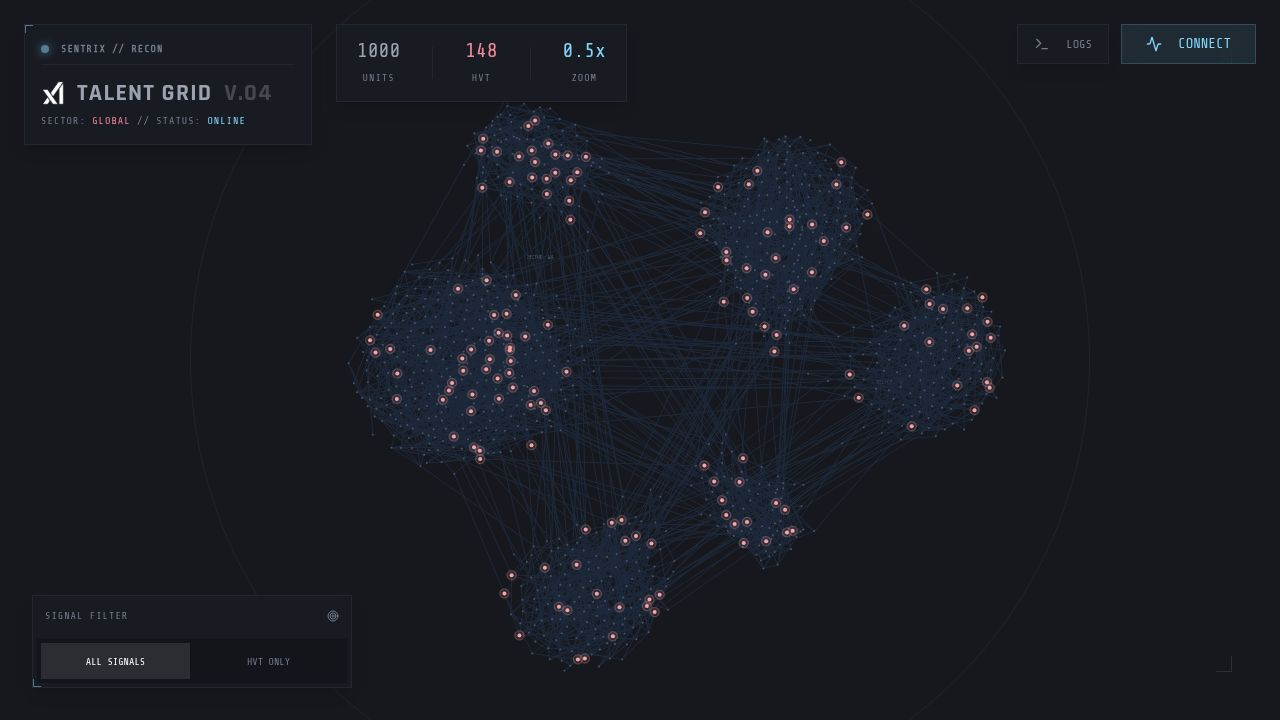
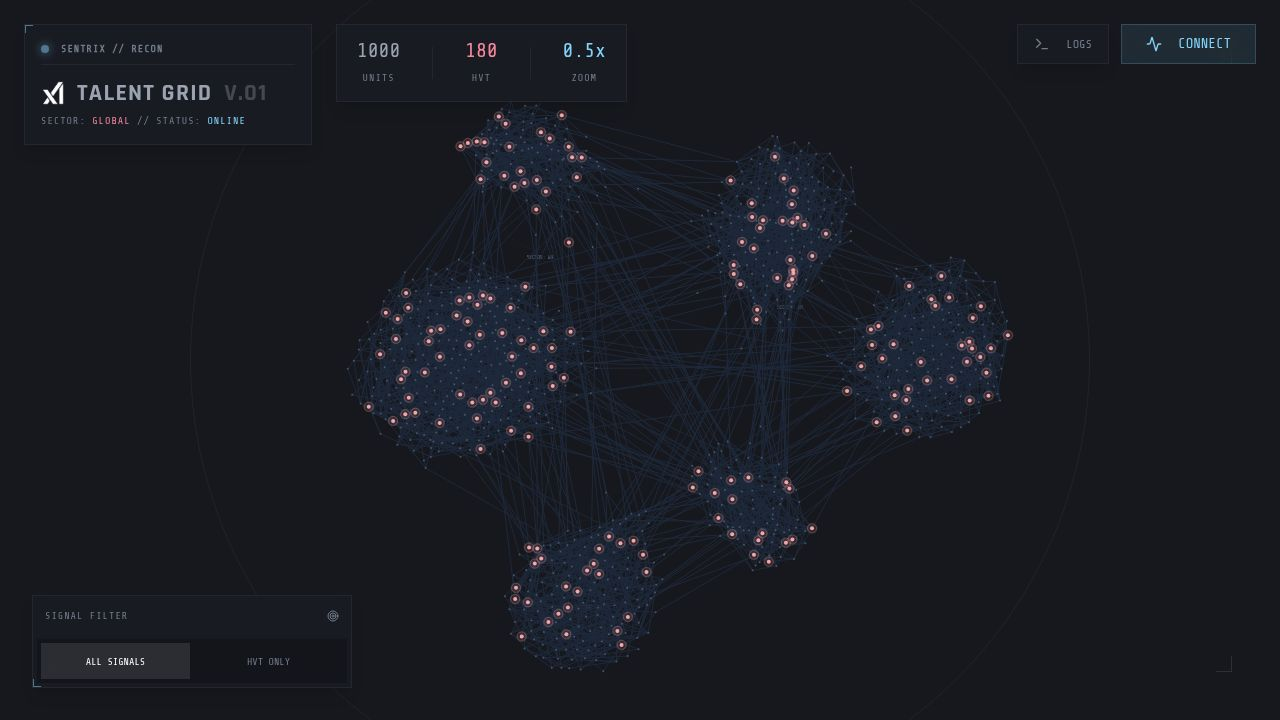
Update application version to V.01
Change the displayed application version from V.04 to V.01 in the Home component.

Replit-Commit-Author: Agent
Replit-Commit-Session-Id: f2da9af0-5dc9-43ad-8e9c-901f2eba3dab
Replit-Commit-Checkpoint-Type: full_checkpoint
Replit-Commit-Event-Id: a541512a-d8e9-464e-86ec-0ad70075cb88
Replit-Commit-Screenshot-Url: https://storage.googleapis.com/screenshot-production-us-central1/5ab93c79-3168-450f-94ce-61b7194154bd/f2da9af0-5dc9-43ad-8e9c-901f2eba3dab/F2tyTIe
Replit-Helium-Checkpoint-Created: true

diff --git a/client/src/pages/Home.tsx b/client/src/pages/Home.tsx
@@ -41,7 +41,7 @@ export default function Home() {
              <div className="h-px bg-white/5 w-full mb-3" />
              <h1 className="text-2xl font-bold uppercase tracking-wider text-foreground flex items-center gap-3">
                <img src="/xai-logo.png" alt="xAI" className="h-6 w-auto" />
-               Talent Grid <span className="text-white/20">V.04</span>
+               Talent Grid <span className="text-white/20">V.01</span>
              </h1>
              <p className="hud-text mt-1">
                 Sector: <span className="text-secondary">Global</span> // Status: <span className="text-primary">Online</span>
